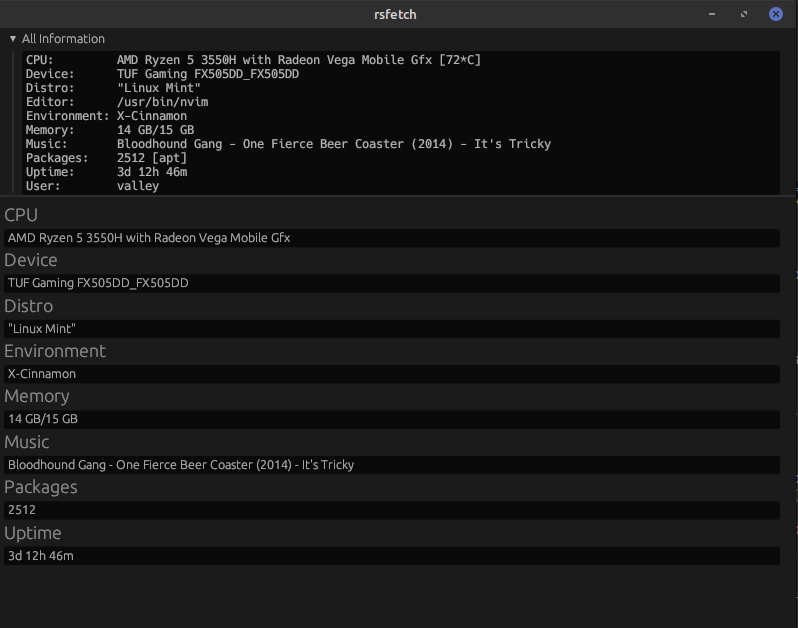
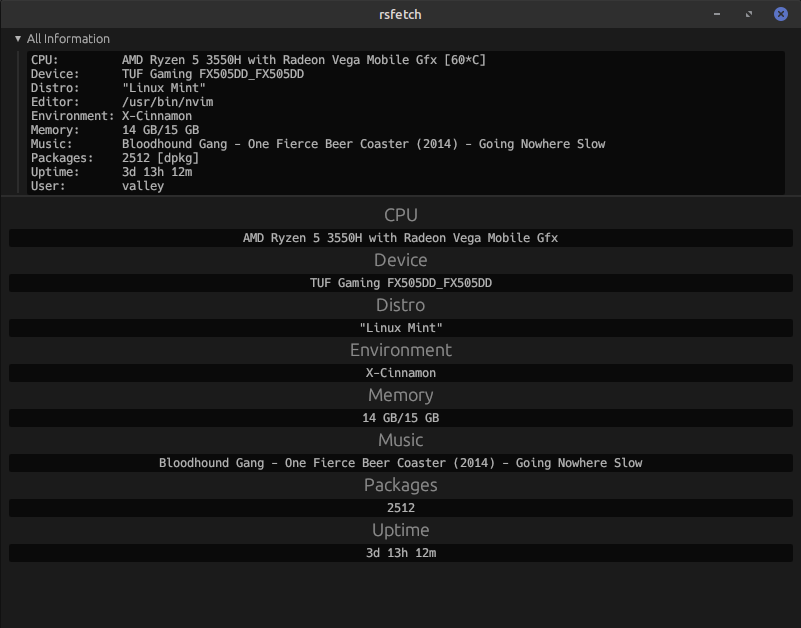
center text, fix readability of code

diff --git a/src/main.rs b/src/main.rs
@@ -62,22 +62,56 @@ fn main() -> Result<(), eframe::Error> {
         // TODO: Align the text in the center to make room for an image to the left.
         // TODO: Potentially change the background of the window to the image as an option.
         egui::CentralPanel::default().show(ctx, |ui| {
-            ui.heading("CPU");
-            ui.add(egui::TextEdit::singleline(&mut cpu.to_owned()).desired_width(f32::INFINITY).code_editor());
-            ui.heading("Device");
-            ui.add(egui::TextEdit::singleline(&mut device.to_owned()).desired_width(f32::INFINITY).code_editor());
-            ui.heading("Distro");
-            ui.add(egui::TextEdit::singleline(&mut distro.to_owned()).desired_width(f32::INFINITY).code_editor());
-            ui.heading("Environment");
-            ui.add(egui::TextEdit::singleline(&mut environment.to_owned()).desired_width(f32::INFINITY).code_editor());
-            ui.heading("Memory");
-            ui.add(egui::TextEdit::singleline(&mut memory_string.to_owned()).desired_width(f32::INFINITY).code_editor());
-            ui.heading("Music");
-            ui.add(egui::TextEdit::singleline(&mut music.to_owned()).desired_width(f32::INFINITY).code_editor());
-            ui.heading("Packages");
-            ui.add(egui::TextEdit::singleline(&mut packages.to_owned()).desired_width(f32::INFINITY).code_editor());
-            ui.heading("Uptime");
-            ui.add(egui::TextEdit::singleline(&mut uptime.to_owned()).desired_width(f32::INFINITY).code_editor());
+            ui.vertical_centered_justified(|ui| {
+                ui.heading("CPU");
+                ui.add(egui::TextEdit::singleline(&mut cpu.to_owned())
+                    .horizontal_align(eframe::emath::Align::Center)
+                    .desired_width(f32::INFINITY)
+                    .code_editor()
+                );
+                ui.heading("Device");
+                ui.add(egui::TextEdit::singleline(&mut device.to_owned())
+                    .horizontal_align(eframe::emath::Align::Center)
+                    .desired_width(f32::INFINITY)
+                    .code_editor()
+                );
+                ui.heading("Distro");
+                ui.add(egui::TextEdit::singleline(&mut distro.to_owned())
+                    .horizontal_align(eframe::emath::Align::Center)
+                    .desired_width(f32::INFINITY)
+                    .code_editor()
+                );
+                ui.heading("Environment");
+                ui.add(egui::TextEdit::singleline(&mut environment.to_owned())
+                    .horizontal_align(eframe::emath::Align::Center)
+                    .desired_width(f32::INFINITY)
+                    .code_editor()
+                );
+                ui.heading("Memory");
+                ui.add(egui::TextEdit::singleline(&mut memory_string.to_owned())
+                    .horizontal_align(eframe::emath::Align::Center)
+                    .desired_width(f32::INFINITY)
+                    .code_editor()
+                );
+                ui.heading("Music");
+                ui.add(egui::TextEdit::singleline(&mut music.to_owned())
+                    .horizontal_align(eframe::emath::Align::Center)
+                    .desired_width(f32::INFINITY)
+                    .code_editor()
+                );
+                ui.heading("Packages");
+                ui.add(egui::TextEdit::singleline(&mut packages.to_owned())
+                    .horizontal_align(eframe::emath::Align::Center)
+                    .desired_width(f32::INFINITY)
+                    .code_editor()
+                );
+                ui.heading("Uptime");
+                ui.add(egui::TextEdit::singleline(&mut uptime.to_owned())
+                    .horizontal_align(eframe::emath::Align::Center)
+                    .desired_width(f32::INFINITY)
+                    .code_editor()
+                );
+            });
         });
     })
 }
